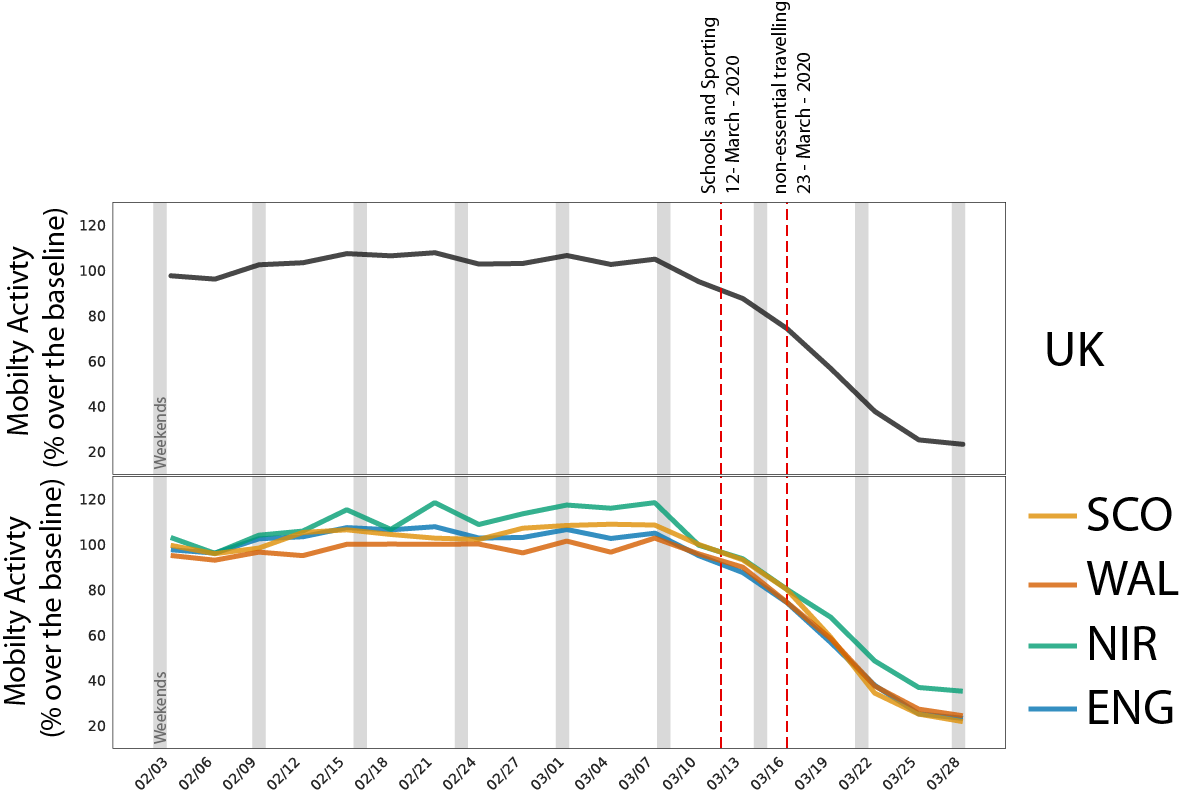
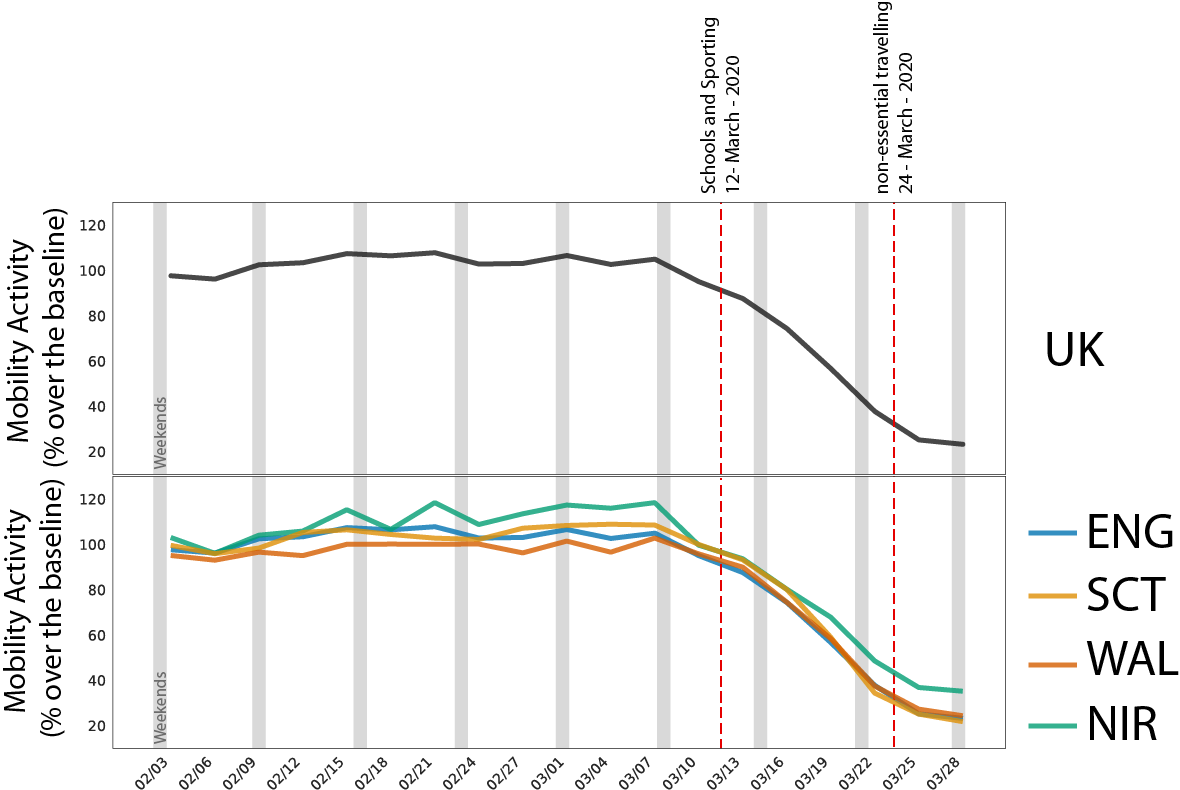
Changes to text in first report

diff --git a/_site/First-report.html b/_site/First-report.html
@@ -5,7 +5,7 @@
     <meta charset='utf-8'>
     <meta http-equiv="X-UA-Compatible" content="IE=edge">
     <meta name="viewport" content="width=device-width,maximum-scale=2">
-    <link rel="stylesheet" type="text/css" media="screen" href="/assets/css/style.css?v=c4cd871a4cce6d6727343570e1a0969bce681dd4">
+    <link rel="stylesheet" type="text/css" media="screen" href="/assets/css/style.css?v=9cd759582e57c3bf6bc1ed680dd956a7869a29b4">
 
 <!-- Begin Jekyll SEO tag v2.6.1 -->
 <title>Covid-19 UK | Report on human mobility in the UK.</title>
@@ -76,15 +76,28 @@
 
 <p>In order to assess whether movement of people has reduced in the UK during the restriction measures, we first have to establish what the regular level of movement across country is. We refer to this as our baseline. We use the <em> radius of gyration </em> as our measure of mobility. The radius of gyration provides an indication of the characteristic distance travelled by a person during a given time period.
 <br />
-We estimate our baseline by considering the average mobility during the period xxx until yyy in February 2020. This period is immediately before restriction measures were put into place by the British government, and it does not contain significant events, such as bank holidays or festivities, that may affect our baseline estimates. For our baseline, we use the median radius of gyration. <b>Figure 1 (A)</b> depicts the results of our baseline estimates.
+We estimate our baseline by considering the average mobility during the period xxx until yyy in February 2020. This period is immediately before restriction measures were put into place by the British government, and it does not contain significant events, such as bank holidays or festivities, that may affect our baseline estimates. For our baseline, we use the median radius of gyration. <b>Figure 1 (A)</b> depicts the results of our baseline estimates at county level.
 <br />
 EDIT? As an example of a comparison between the baseline and another day, we selected the 25th of February and showed the comparison result in <b>Figure 1 (B)</b>. As can be noticed in this figure, in that day the radius increased or not changed in the majority of the regions of the Uk.</p>
 
 <p><br /></p>
 <figure class="image" align="center">
-<img src="plots/uk_baseline.png" width="300" />
-<img src="plots/uk_reduc_25_02.png" width="300" />
- <figcaption align="center"> <b>Figure 1</b> (A) We estimate the average levels of mobility across the UK to use as comparison throughout our analysis. As a measure of mobility, we use the radius of gyration, which indicates the typical distance travelled during the given time period. Here, we depict the median radius of gyration during the time period between xxx and yyy (note the logarithmic scale). Areas with more intense red correspond to areas with a larger value of the radius of gyration (B) We validate our baseline by comparing it to a typical day before the restriction measures came into place. Blue areas represent locations where the radius of gyration decreased, whereas grey areas represent no changes or an increase in the mobility. We find that, on a typical day, we do not observe many areas where the radius of gyration is lower than our baseline.</figcaption>
+<img src="plots/Mobility_UK_new.png" />
+ <figcaption align="center"> <b>Figure 1</b> (A) We estimate the average levels of mobility across the UK to use as comparison throughout our analysis. As a measure of mobility, we use the radius of gyration, which indicates the typical distance travelled during the given time period. Here, we depict the median radius of gyration during the time period between xxx and yyy. Areas with more intense red correspond to areas with a larger value of the radius of gyration.</figcaption>
+</figure>
+
+<figure class="image" align="center">
+<img src="plots/Uk_02_18_baseline_comp.png" />
+ <figcaption align="center"> <b>Figure 1</b>(B) We validate our baseline by comparing it to a typical day before the restriction measures came into place. Blue areas represent locations where the radius of gyration decreased, whereas grey areas represent no changes or an increase in the mobility. We find that, on a typical day, we do not observe many areas where the radius of gyration is lower than our baseline.</figcaption>
+</figure>
+
+<h3 id="changes-in-mobility">Changes in mobility</h3>
+
+<p>We want to assess the changes in the levels of mobility in the UK during the Covid-19 pandemic. We compare the weekly levels of mobility to our baseline, and we present the results as a percentage of the baseline. We refer to this as the mobility activity. For instance, if the mobility activity has a value of 50, this corresponds to a mobility level which is 50% when compared to our baseline. In the animation below, we show how the mobility has been changing since the beginnign of February. We can see that, until early March, the mobility activity was remainining roughtly constant, but it starts to drop sharply soon after the first restriction measures have been put into place.</p>
+
+<figure class="image" align="center">
+<img src="plots/animation_mobility.gif" />
+<figcaption align="center"> <b>Animation</b> .</figcaption>
 </figure>
 
 <h3 id="12th-march-2020">12th March 2020</h3>
@@ -92,16 +105,16 @@ EDIT? As an example of a comparison between the baseline and another day, we sel
 <p>By March 12th 2020, the confirmed number of Covid-19 cases in the UK had increased to about five hundred  and the Chief Medical Officer advised schools to cancel school trips and recommended people with coronavirus symptoms (fever of dry continuous cough) to self isolate for seven days. <b>Figure 2</b> depicts the comparison between this day and the baseline. Visual inspection clearly reveals several areas which have a decreased radius of gyration, as compared to Figure 1 (B). However, the majority of locations still presents no decrease in the average mobility. 
 <br /></p>
 <figure class="image" align="center">
-<img src="plots/uk_reduc_12_03.png" width="350" />
+<img src="plots/UK_03_13.png" />
 <figcaption align="center"> <b>Figure 2</b> We compare the average mobility on March 12th with our baseline estimates. We find that a number of locations present lower mobility, as measured by the radius of gyration. However, the majority of areas still have no decrease.</figcaption>
 </figure>
 
 <h3 id="23-march-2020">23 March 2020</h3>
 
-<p>On March 23rd, the Prime Minister asks the British people to stop all non-essential travelling, effectively imposing a state of lockdown in the UK. We anticipate that this restriction measure will lead to a big reduction in the levels of mobility in the upcoming days. <b>Figure 3</b> presents the changes in the radius of gyration between this date and our baseline. We clearly see a reduction in the mobility of people across the majority of the UK.
+<p>On March 23rd, the Prime Minister asked the British people to stop all non-essential travelling, effectively imposing a state of lockdown in the UK. We anticipate that this restriction measure will lead to a big reduction in the levels of mobility in the upcoming days. <b>Figure 3</b> presents the changes in the radius of gyration between this date and our baseline. We clearly see a reduction in the mobility of people across the majority of the UK.
 <br /></p>
 <figure class="image" align="center">
-<img src="plots/uk_reduc_23_03.png" width="350" />
+<img src="plots/Uk_03_23.png" />
 <figcaption align="center"> <b>Figure 3</b> Here, we present a comparison between the radius of gyration across the UK on 23rd March and the baseline mobility levels. We observe a reduction in the average mobility for most of the UK as a result of restriction measures put into place by the Government.</figcaption>
 </figure>
 
@@ -110,11 +123,13 @@ EDIT? As an example of a comparison between the baseline and another day, we sel
 <p>We anticipate that the restriction measures on people’s mobility imposed by the British Government will take a few days to show their full effect. Here, we compare the median radius of gyration on April 1st with our baseline (<b> Figure 4</b>). We find a reduction in mobility across the majority of the United Kingdom.
 <br /></p>
 <figure class="image" align="center">
-<img src="plots/uk_reduc_01_04.png" width="350" />
+<img src="plots/Uk_03_28.png" />
 <figcaption align="center"> <b>Figure 4</b></figcaption>
 </figure>
 
 <h3 id="the-trend-of-uk">The Trend of UK</h3>
+
+<p>Here, we consider the overall trend over time across the UK. We find a clear drop in mobility activity roughly starting on the first weekend of March, a few days before the first restriction measures were put into place. We find that the reduction is consistent across England, Wales, Scotland, and Northern Ireland.</p>
 
 <p><br /></p>
 <figure class="image" align="center">
@@ -127,28 +142,28 @@ EDIT? As an example of a comparison between the baseline and another day, we sel
 <p>Our goal is to assess whether restriction measures are having the desired effect in reducing the mobility of British people. Here, we directly compare the degree of mobility in different time periods across the four countries in the United Kingdom. After March 23rd, when an effective lockdown was imposed on the country, we see a great reduction in the levels of mobility across all of the UK.
 <br /></p>
 <figure class="image" align="center">
-<img src="plots/uk_geo_codes_before_after.png" width="800" />
-<figcaption align="center"> <b>Figure 6</b></figcaption>
+<img src="plots/uk_geo_codes_before_after.png" />
+<figcaption align="center"> <b>Figure 6 UK</b></figcaption>
 </figure>
 <p><br /></p>
 <figure class="image" align="center">
-<img src="plots/ENG_bar_group.png" width="800" />
-<figcaption align="center"> <b>Figure 7</b></figcaption>
+<img src="plots/eng_detailed_regions_before_after.png" />
+<figcaption align="center"> <b>Figure 7 ENG</b></figcaption>
 </figure>
 <p><br /></p>
 <figure class="image" align="center">
-<img src="plots/radious_weeks_nl.png" width="800" />
-<figcaption align="center"> <b>Figure 8</b></figcaption>
+<img src="plots/sct_detailed_regions_before_after.png" />
+<figcaption align="center"> <b>Figure 8 SCT</b></figcaption>
 </figure>
 <p><br /></p>
 <figure class="image" align="center">
-<img src="plots/radious_weeks_sc.png" width="800" />
-<figcaption align="center"> <b>Figure 8</b></figcaption>
+<img src="plots/nir_detailed_regions_before_after.png" />
+<figcaption align="center"> <b>Figure 8 NIR</b></figcaption>
 </figure>
 <p><br /></p>
 <figure class="image" align="center">
-<img src="plots/radious_weeks_wa.png" width="800" />
-<figcaption align="center"> <b>Figure 9</b></figcaption>
+<img src="plots/wal_detailed_regions_before_after.png" />
+<figcaption align="center"> <b>Figure 9 WAL</b></figcaption>
 </figure>
 
 <h3 id="validation-of-data">Validation of Data</h3>
@@ -158,6 +173,8 @@ EDIT? As an example of a comparison between the baseline and another day, we sel
 <img src="plots/pop_validation.png" width="800" />
 <figcaption align="center"> <b>Figure 9</b></figcaption>
 </figure>
+
+<h3 id="methods">Methods</h3>
 
 <h2 id="data">Data</h2>
 

diff --git a/_site/index.html b/_site/index.html
@@ -5,7 +5,7 @@
     <meta charset='utf-8'>
     <meta http-equiv="X-UA-Compatible" content="IE=edge">
     <meta name="viewport" content="width=device-width,maximum-scale=2">
-    <link rel="stylesheet" type="text/css" media="screen" href="/assets/css/style.css?v=c4cd871a4cce6d6727343570e1a0969bce681dd4">
+    <link rel="stylesheet" type="text/css" media="screen" href="/assets/css/style.css?v=9cd759582e57c3bf6bc1ed680dd956a7869a29b4">
 
 <!-- Begin Jekyll SEO tag v2.6.1 -->
 <title>Covid-19 UK | Report on human mobility in the UK.</title>

diff --git a/_site/docs/SUPPORT.html b/_site/docs/SUPPORT.html
@@ -5,7 +5,7 @@
     <meta charset='utf-8'>
     <meta http-equiv="X-UA-Compatible" content="IE=edge">
     <meta name="viewport" content="width=device-width,maximum-scale=2">
-    <link rel="stylesheet" type="text/css" media="screen" href="/assets/css/style.css?v=c4cd871a4cce6d6727343570e1a0969bce681dd4">
+    <link rel="stylesheet" type="text/css" media="screen" href="/assets/css/style.css?v=9cd759582e57c3bf6bc1ed680dd956a7869a29b4">
 
 <!-- Begin Jekyll SEO tag v2.6.1 -->
 <title>Where to get help | Covid-19 UK</title>

diff --git a/_site/another-page.html b/_site/another-page.html
@@ -5,7 +5,7 @@
     <meta charset='utf-8'>
     <meta http-equiv="X-UA-Compatible" content="IE=edge">
     <meta name="viewport" content="width=device-width,maximum-scale=2">
-    <link rel="stylesheet" type="text/css" media="screen" href="/assets/css/style.css?v=c4cd871a4cce6d6727343570e1a0969bce681dd4">
+    <link rel="stylesheet" type="text/css" media="screen" href="/assets/css/style.css?v=9cd759582e57c3bf6bc1ed680dd956a7869a29b4">
 
 <!-- Begin Jekyll SEO tag v2.6.1 -->
 <title>About | Covid-19 UK</title>

diff --git a/_site/First-report.md b/_site/First-report.md
@@ -37,32 +37,46 @@ Note that this timeline is not meant to be complete, but is only an indication o
 
 In order to assess whether movement of people has reduced in the UK during the restriction measures, we first have to establish what the regular level of movement across country is. We refer to this as our baseline. We use the <em> radius of gyration </em> as our measure of mobility. The radius of gyration provides an indication of the characteristic distance travelled by a person during a given time period.
 <br>
-We estimate our baseline by considering the average mobility during the period xxx until yyy in February 2020. This period is immediately before restriction measures were put into place by the British government, and it does not contain significant events, such as bank holidays or festivities, that may affect our baseline estimates. For our baseline, we use the median radius of gyration. <b>Figure 1 (A)</b> depicts the results of our baseline estimates.
+We estimate our baseline by considering the average mobility during the period xxx until yyy in February 2020. This period is immediately before restriction measures were put into place by the British government, and it does not contain significant events, such as bank holidays or festivities, that may affect our baseline estimates. For our baseline, we use the median radius of gyration. <b>Figure 1 (A)</b> depicts the results of our baseline estimates at county level.
 <br>
 EDIT? As an example of a comparison between the baseline and another day, we selected the 25th of February and showed the comparison result in <b>Figure 1 (B)</b>. As can be noticed in this figure, in that day the radius increased or not changed in the majority of the regions of the Uk.
 
 <br>
 <figure class="image" align="center">
-<img src="plots/uk_baseline.png" width="300">
-<img src="plots/uk_reduc_25_02.png" width="300">
- <figcaption align="center"> <b>Figure 1</b> (A) We estimate the average levels of mobility across the UK to use as comparison throughout our analysis. As a measure of mobility, we use the radius of gyration, which indicates the typical distance travelled during the given time period. Here, we depict the median radius of gyration during the time period between xxx and yyy (note the logarithmic scale). Areas with more intense red correspond to areas with a larger value of the radius of gyration (B) We validate our baseline by comparing it to a typical day before the restriction measures came into place. Blue areas represent locations where the radius of gyration decreased, whereas grey areas represent no changes or an increase in the mobility. We find that, on a typical day, we do not observe many areas where the radius of gyration is lower than our baseline.</figcaption>
+<img src="plots/Mobility_UK_new.png">
+ <figcaption align="center"> <b>Figure 1</b> (A) We estimate the average levels of mobility across the UK to use as comparison throughout our analysis. As a measure of mobility, we use the radius of gyration, which indicates the typical distance travelled during the given time period. Here, we depict the median radius of gyration during the time period between xxx and yyy. Areas with more intense red correspond to areas with a larger value of the radius of gyration.</figcaption>
 </figure>
+
+<figure class="image" align="center">
+<img src="plots/Uk_02_18_baseline_comp.png">
+ <figcaption align="center"> <b>Figure 1</b>(B) We validate our baseline by comparing it to a typical day before the restriction measures came into place. Blue areas represent locations where the radius of gyration decreased, whereas grey areas represent no changes or an increase in the mobility. We find that, on a typical day, we do not observe many areas where the radius of gyration is lower than our baseline.</figcaption>
+</figure>
+
+### Changes in mobility 
+
+We want to assess the changes in the levels of mobility in the UK during the Covid-19 pandemic. We compare the weekly levels of mobility to our baseline, and we present the results as a percentage of the baseline. We refer to this as the mobility activity. For instance, if the mobility activity has a value of 50, this corresponds to a mobility level which is 50% when compared to our baseline. In the animation below, we show how the mobility has been changing since the beginnign of February. We can see that, until early March, the mobility activity was remainining roughtly constant, but it starts to drop sharply soon after the first restriction measures have been put into place.
+
+<figure class="image" align="center">
+<img src="plots/animation_mobility.gif">
+<figcaption align="center"> <b>Animation</b> .</figcaption>
+</figure>
+
 
 ### 12th March 2020
 
 By March 12th 2020, the confirmed number of Covid-19 cases in the UK had increased to about five hundred  and the Chief Medical Officer advised schools to cancel school trips and recommended people with coronavirus symptoms (fever of dry continuous cough) to self isolate for seven days. <b>Figure 2</b> depicts the comparison between this day and the baseline. Visual inspection clearly reveals several areas which have a decreased radius of gyration, as compared to Figure 1 (B). However, the majority of locations still presents no decrease in the average mobility. 
 <br>
 <figure class="image" align="center">
-<img src="plots/uk_reduc_12_03.png" width="350">
+<img src="plots/UK_03_13.png">
 <figcaption align="center"> <b>Figure 2</b> We compare the average mobility on March 12th with our baseline estimates. We find that a number of locations present lower mobility, as measured by the radius of gyration. However, the majority of areas still have no decrease.</figcaption>
 </figure>
 
 ### 23 March 2020
 
-On March 23rd, the Prime Minister asks the British people to stop all non-essential travelling, effectively imposing a state of lockdown in the UK. We anticipate that this restriction measure will lead to a big reduction in the levels of mobility in the upcoming days. <b>Figure 3</b> presents the changes in the radius of gyration between this date and our baseline. We clearly see a reduction in the mobility of people across the majority of the UK.
+On March 23rd, the Prime Minister asked the British people to stop all non-essential travelling, effectively imposing a state of lockdown in the UK. We anticipate that this restriction measure will lead to a big reduction in the levels of mobility in the upcoming days. <b>Figure 3</b> presents the changes in the radius of gyration between this date and our baseline. We clearly see a reduction in the mobility of people across the majority of the UK.
 <br>
 <figure class="image" align="center">
-<img src="plots/uk_reduc_23_03.png" width="350">
+<img src="plots/Uk_03_23.png">
 <figcaption align="center"> <b>Figure 3</b> Here, we present a comparison between the radius of gyration across the UK on 23rd March and the baseline mobility levels. We observe a reduction in the average mobility for most of the UK as a result of restriction measures put into place by the Government.</figcaption>
 </figure>
 
@@ -72,12 +86,14 @@ On March 23rd, the Prime Minister asks the British people to stop all non-essent
 We anticipate that the restriction measures on people's mobility imposed by the British Government will take a few days to show their full effect. Here, we compare the median radius of gyration on April 1st with our baseline (<b> Figure 4</b>). We find a reduction in mobility across the majority of the United Kingdom.
 <br>
 <figure class="image" align="center">
-<img src="plots/uk_reduc_01_04.png" width="350">
+<img src="plots/Uk_03_28.png">
 <figcaption align="center"> <b>Figure 4</b></figcaption>
 </figure>
 
 
 ### The Trend of UK
+
+Here, we consider the overall trend over time across the UK. We find a clear drop in mobility activity roughly starting on the first weekend of March, a few days before the first restriction measures were put into place. We find that the reduction is consistent across England, Wales, Scotland, and Northern Ireland.
 
 <br>
 <figure class="image" align="center">
@@ -91,28 +107,28 @@ We anticipate that the restriction measures on people's mobility imposed by the 
 Our goal is to assess whether restriction measures are having the desired effect in reducing the mobility of British people. Here, we directly compare the degree of mobility in different time periods across the four countries in the United Kingdom. After March 23rd, when an effective lockdown was imposed on the country, we see a great reduction in the levels of mobility across all of the UK.
 <br>
 <figure class="image" align="center">
-<img src="plots/uk_geo_codes_before_after.png" width="800">
-<figcaption align="center"> <b>Figure 6</b></figcaption>
+<img src="plots/uk_geo_codes_before_after.png">
+<figcaption align="center"> <b>Figure 6 UK</b></figcaption>
 </figure>
 <br>
 <figure class="image" align="center">
-<img src="plots/ENG_bar_group.png" width="800">
-<figcaption align="center"> <b>Figure 7</b></figcaption>
+<img src="plots/eng_detailed_regions_before_after.png">
+<figcaption align="center"> <b>Figure 7 ENG</b></figcaption>
 </figure>
 <br>
 <figure class="image" align="center">
-<img src="plots/radious_weeks_nl.png" width="800">
-<figcaption align="center"> <b>Figure 8</b></figcaption>
+<img src="plots/sct_detailed_regions_before_after.png">
+<figcaption align="center"> <b>Figure 8 SCT</b></figcaption>
 </figure>
 <br>
 <figure class="image" align="center">
-<img src="plots/radious_weeks_sc.png" width="800">
-<figcaption align="center"> <b>Figure 8</b></figcaption>
+<img src="plots/nir_detailed_regions_before_after.png">
+<figcaption align="center"> <b>Figure 8 NIR</b></figcaption>
 </figure>
 <br>
 <figure class="image" align="center">
-<img src="plots/radious_weeks_wa.png" width="800">
-<figcaption align="center"> <b>Figure 9</b></figcaption>
+<img src="plots/wal_detailed_regions_before_after.png">
+<figcaption align="center"> <b>Figure 9 WAL</b></figcaption>
 </figure>
 
 ### Validation of Data
@@ -122,6 +138,8 @@ Population plot the upper point of ENG are London
 <img src="plots/pop_validation.png" width="800">
 <figcaption align="center"> <b>Figure 9</b></figcaption>
 </figure>
+
+### Methods
 
 ## Data
 

diff --git a/First-report.md b/First-report.md
@@ -44,7 +44,7 @@ EDIT? As an example of a comparison between the baseline and another day, we sel
 <br>
 <figure class="image" align="center">
 <img src="plots/Mobility_UK_new.png">
- <figcaption align="center"> <b>Figure 1</b> (A) We estimate the average levels of mobility across the UK to use as comparison throughout our analysis. As a measure of mobility, we use the radius of gyration, which indicates the typical distance travelled during the given time period. Here, we depict the median radius of gyration during the time period between xxx and yyy (note the logarithmic scale). Areas with more intense red correspond to areas with a larger value of the radius of gyration.</figcaption>
+ <figcaption align="center"> <b>Figure 1</b> (A) We estimate the average levels of mobility across the UK to use as comparison throughout our analysis. As a measure of mobility, we use the radius of gyration, which indicates the typical distance travelled during the given time period. Here, we depict the median radius of gyration during the time period between xxx and yyy. Areas with more intense red correspond to areas with a larger value of the radius of gyration.</figcaption>
 </figure>
 
 <figure class="image" align="center">
@@ -52,7 +52,9 @@ EDIT? As an example of a comparison between the baseline and another day, we sel
  <figcaption align="center"> <b>Figure 1</b>(B) We validate our baseline by comparing it to a typical day before the restriction measures came into place. Blue areas represent locations where the radius of gyration decreased, whereas grey areas represent no changes or an increase in the mobility. We find that, on a typical day, we do not observe many areas where the radius of gyration is lower than our baseline.</figcaption>
 </figure>
 
-### Changinig in mobility 
+### Changes in mobility 
+
+We want to assess the changes in the levels of mobility in the UK during the Covid-19 pandemic. We compare the weekly levels of mobility to our baseline, and we present the results as a percentage of the baseline. We refer to this as the mobility activity. For instance, if the mobility activity has a value of 50, this corresponds to a mobility level which is 50% when compared to our baseline. In the animation below, we show how the mobility has been changing since the beginnign of February. We can see that, until early March, the mobility activity was remainining roughtly constant, but it starts to drop sharply soon after the first restriction measures have been put into place.
 
 <figure class="image" align="center">
 <img src="plots/animation_mobility.gif">
@@ -71,7 +73,7 @@ By March 12th 2020, the confirmed number of Covid-19 cases in the UK had increas
 
 ### 23 March 2020
 
-On March 23rd, the Prime Minister asks the British people to stop all non-essential travelling, effectively imposing a state of lockdown in the UK. We anticipate that this restriction measure will lead to a big reduction in the levels of mobility in the upcoming days. <b>Figure 3</b> presents the changes in the radius of gyration between this date and our baseline. We clearly see a reduction in the mobility of people across the majority of the UK.
+On March 23rd, the Prime Minister asked the British people to stop all non-essential travelling, effectively imposing a state of lockdown in the UK. We anticipate that this restriction measure will lead to a big reduction in the levels of mobility in the upcoming days. <b>Figure 3</b> presents the changes in the radius of gyration between this date and our baseline. We clearly see a reduction in the mobility of people across the majority of the UK.
 <br>
 <figure class="image" align="center">
 <img src="plots/Uk_03_23.png">
@@ -90,6 +92,8 @@ We anticipate that the restriction measures on people's mobility imposed by the 
 
 
 ### The Trend of UK
+
+Here, we consider the overall trend over time across the UK. We find a clear drop in mobility activity roughly starting on the first weekend of March, a few days before the first restriction measures were put into place. We find that the reduction is consistent across England, Wales, Scotland, and Northern Ireland.
 
 <br>
 <figure class="image" align="center">
@@ -134,6 +138,8 @@ Population plot the upper point of ENG are London
 <img src="plots/pop_validation.png" width="800">
 <figcaption align="center"> <b>Figure 9</b></figcaption>
 </figure>
+
+### Methods
 
 ## Data
 
